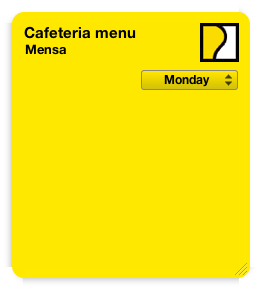
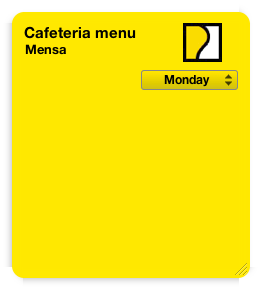
moved not generated css code in new file

Changed region(s): [[0.6718, 0.0621, 0.916, 0.2172]]

diff --git a/Cafeteria Menu - University of Kassel.dcproj/project/widget.wdgt/main.css b/Cafeteria Menu - University of Kassel.dcproj/project/widget.wdgt/main.css
@@ -16,14 +16,6 @@ tr {
     color: rgb(125, 112, 2);
 }
 
-#bgContent {
-    position: absolute;
-    left: 23px;
-    top: 23px;
-    right: 23px;
-    bottom: 23px;
-    background-color: rgb(255, 232, 0);
-}
 
 #info {
     position: absolute;
@@ -63,127 +55,6 @@ tr {
     margin-left: auto;
     top: 240px;
     margin-top: auto;
-}
-
-#bgTopLeftCorner {
-    position: absolute;
-    background-image: url(Images/bg/topLeftCorner.png);
-    background-repeat: no-repeat;
-    background-attachment: initial;
-    -khtml-background-clip: initial;
-    -khtml-background-origin: initial;
-    background-color: initial;
-    left: 0px;
-    top: 0px;
-    width: 23px;
-    height: 23px;
-    background-position: 0% 0%;
-}
-
-#bgTopRightCorner {
-    position: absolute;
-    background-image: url(Images/bg/topRightCorner.png);
-    background-repeat: no-repeat;
-    background-attachment: initial;
-    -khtml-background-clip: initial;
-    -khtml-background-origin: initial;
-    background-color: initial;
-    right: 0px;
-    top: 0px;
-    width: 23px;
-    height: 23px;
-    background-position: 0% 0%;
-}
-
-#bgBottomLeftCorner {
-    position: absolute;
-    background-image: url(Images/bg/bottomLeftCorner.png);
-    background-repeat: no-repeat;
-    background-attachment: initial;
-    -khtml-background-clip: initial;
-    -khtml-background-origin: initial;
-    background-color: initial;
-    left: 0px;
-    bottom: 0px;
-    width: 23px;
-    height: 23px;
-    background-position: 0% 0%;
-}
-
-#bgBottomRightCorner {
-    position: absolute;
-    background-image: url(Images/bg/bottomRightCorner.png);
-    background-repeat: no-repeat;
-    background-attachment: initial;
-    -khtml-background-clip: initial;
-    -khtml-background-origin: initial;
-    background-color: initial;
-    right: 0px;
-    bottom: 0px;
-    width: 23px;
-    height: 23px;
-    background-position: 0% 0%;
-}
-
-#bgTop {
-    background-image: url(Images/bg/top.png);
-    background-repeat: repeat-x;
-    background-attachment: initial;
-    -khtml-background-clip: initial;
-    -khtml-background-origin: initial;
-    background-color: initial;
-    position: absolute;
-    top: 0px;
-    left: 23px;
-    right: 23px;
-    height: 23px;
-    background-position: 0% 0%;
-}
-
-#bgRight {
-    background-image: url(Images/bg/right.png);
-    background-repeat: repeat-y;
-    background-attachment: initial;
-    -khtml-background-clip: initial;
-    -khtml-background-origin: initial;
-    background-color: initial;
-    position: absolute;
-    top: 23px;
-    right: 0px;
-    width: 23px;
-    bottom: 23px;
-    height: auto;
-    background-position: 100% 0%;
-}
-
-#bgBottom {
-    background-image: url(Images/bg/bottom.png);
-    background-repeat: repeat-x;
-    background-attachment: initial;
-    -khtml-background-clip: initial;
-    -khtml-background-origin: initial;
-    background-color: initial;
-    position: absolute;
-    right: 23px;
-    bottom: 0px;
-    left: 23px;
-    height: 23px;
-    background-position: 0% 0%;
-}
-
-#bgLeft {
-    background-image: url(Images/bg/left.png);
-    background-repeat: repeat-y;
-    background-attachment: initial;
-    -khtml-background-clip: initial;
-    -khtml-background-origin: initial;
-    background-color: initial;
-    position: absolute;
-    top: 23px;
-    bottom: 23px;
-    left: 0px;
-    width: 23px;
-    background-position: 0% 0%;
 }
 
 #title {
@@ -423,7 +294,7 @@ tr {
     top: 10px;
     height: 39px;
     width: 39px;
-    left: 187px;
+    left: 170px;
 }
 
 #inner_image {

diff --git a/Cafeteria Menu - University of Kassel.dcproj/project/widget.wdgt/css/CafeteriaWidget.css b/Cafeteria Menu - University of Kassel.dcproj/project/widget.wdgt/css/CafeteriaWidget.css
@@ -1,0 +1,134 @@
+/*
+ * background and side images
+ */
+ 
+#bgLeft {
+    background-image: url(./../Images/bg/left.png);
+    background-repeat: repeat-y;
+    background-attachment: initial;
+    -khtml-background-clip: initial;
+    -khtml-background-origin: initial;
+    background-color: initial;
+    position: absolute;
+    top: 23px;
+    bottom: 23px;
+    left: 0px;
+    width: 23px;
+    background-position: 0% 0%;
+}
+ 
+#bgContent {
+    position: absolute;
+    left: 23px;
+    top: 23px;
+    right: 23px;
+    bottom: 23px;
+    background-color: rgb(255, 232, 0);
+}
+
+
+#bgTopLeftCorner {
+    position: absolute;
+    background-image: url(./../Images/bg/topLeftCorner.png);
+    background-repeat: no-repeat;
+    background-attachment: initial;
+    -khtml-background-clip: initial;
+    -khtml-background-origin: initial;
+    background-color: initial;
+    left: 0px;
+    top: 0px;
+    width: 23px;
+    height: 23px;
+    background-position: 0% 0%;
+}
+
+#bgTopRightCorner {
+    position: absolute;
+    background-image: url(./../Images/bg/topRightCorner.png);
+    background-repeat: no-repeat;
+    background-attachment: initial;
+    -khtml-background-clip: initial;
+    -khtml-background-origin: initial;
+    background-color: initial;
+    right: 0px;
+    top: 0px;
+    width: 23px;
+    height: 23px;
+    background-position: 0% 0%;
+}
+
+#bgBottomLeftCorner {
+    position: absolute;
+    background-image: url(./../Images/bg/bottomLeftCorner.png);
+    background-repeat: no-repeat;
+    background-attachment: initial;
+    -khtml-background-clip: initial;
+    -khtml-background-origin: initial;
+    background-color: initial;
+    left: 0px;
+    bottom: 0px;
+    width: 23px;
+    height: 23px;
+    background-position: 0% 0%;
+}
+
+#bgBottomRightCorner {
+    position: absolute;
+    background-image: url(./../Images/bg/bottomRightCorner.png);
+    background-repeat: no-repeat;
+    background-attachment: initial;
+    -khtml-background-clip: initial;
+    -khtml-background-origin: initial;
+    background-color: initial;
+    right: 0px;
+    bottom: 0px;
+    width: 23px;
+    height: 23px;
+    background-position: 0% 0%;
+}
+
+#bgTop {
+    background-image: url(./../Images/bg/top.png);
+    background-repeat: repeat-x;
+    background-attachment: initial;
+    -khtml-background-clip: initial;
+    -khtml-background-origin: initial;
+    background-color: initial;
+    position: absolute;
+    top: 0px;
+    left: 23px;
+    right: 23px;
+    height: 23px;
+    background-position: 0% 0%;
+}
+
+#bgRight {
+    background-image: url(./../Images/bg/right.png);
+    background-repeat: repeat-y;
+    background-attachment: initial;
+    -khtml-background-clip: initial;
+    -khtml-background-origin: initial;
+    background-color: initial;
+    position: absolute;
+    top: 23px;
+    right: 0px;
+    width: 23px;
+    bottom: 23px;
+    height: auto;
+    background-position: 100% 0%;
+}
+
+#bgBottom {
+    background-image: url(./../Images/bg/bottom.png);
+    background-repeat: repeat-x;
+    background-attachment: initial;
+    -khtml-background-clip: initial;
+    -khtml-background-origin: initial;
+    background-color: initial;
+    position: absolute;
+    right: 23px;
+    bottom: 0px;
+    left: 23px;
+    height: 23px;
+    background-position: 0% 0%;
+}

diff --git a/Cafeteria Menu - University of Kassel.dcproj/project/widget.wdgt/main.html b/Cafeteria Menu - University of Kassel.dcproj/project/widget.wdgt/main.html
@@ -3,6 +3,7 @@
 <head>
     <meta http-equiv="content-type" content="text/html; charset=utf-8">
     <link rel="stylesheet" href="main.css">
+    <link rel="stylesheet" href="css/CafeteriaWidget.css">
     <script type="text/javascript" src="Parts/parts.js" charset="utf-8"></script>
     <script type="text/javascript" src="file:///System/Library/WidgetResources/AppleClasses/AppleAnimator.js" charset="utf-8"></script>
     <script type="text/javascript" src="file:///System/Library/WidgetResources/AppleClasses/AppleButton.js" charset="utf-8"></script>
@@ -29,7 +30,6 @@
     <script type="text/javascript" src="js/model/CafeteriaFactory.js" charset="utf-8"></script>
     <!-- main files -->
     <script type="text/javascript" src="js/CafeteriaWidget.js" charset="utf-8"></script>
-    
     <!--<script type="text/javascript" src="js/Resize.js" charset="utf-8"></script>-->
     <script type="text/javascript" src="main.js" charset="utf-8"></script>
 </head>
